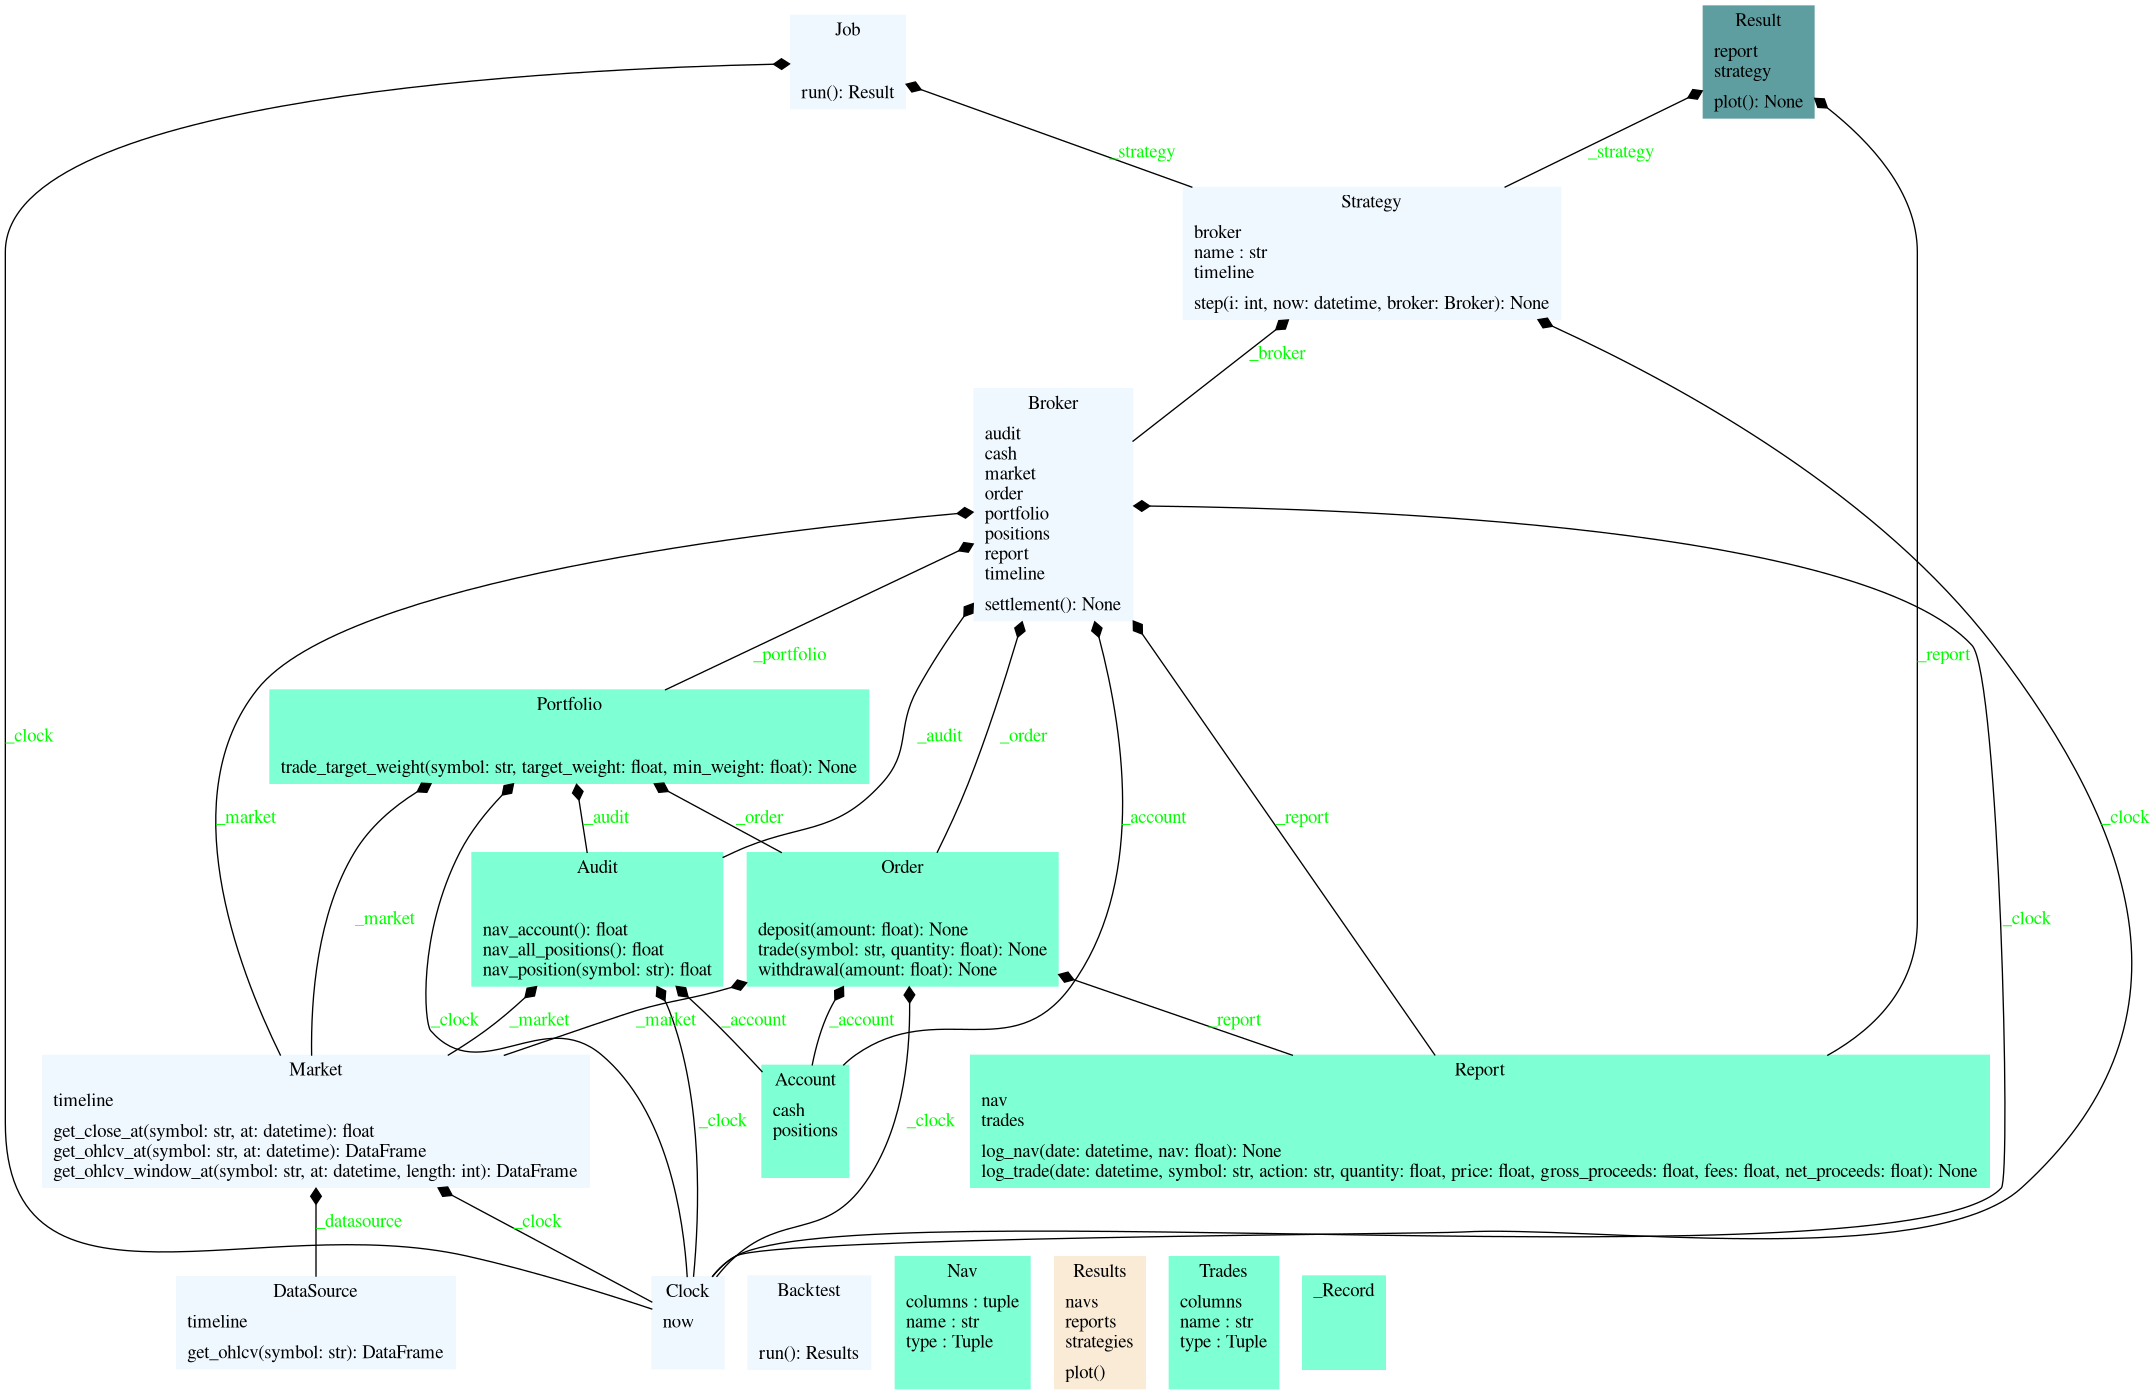
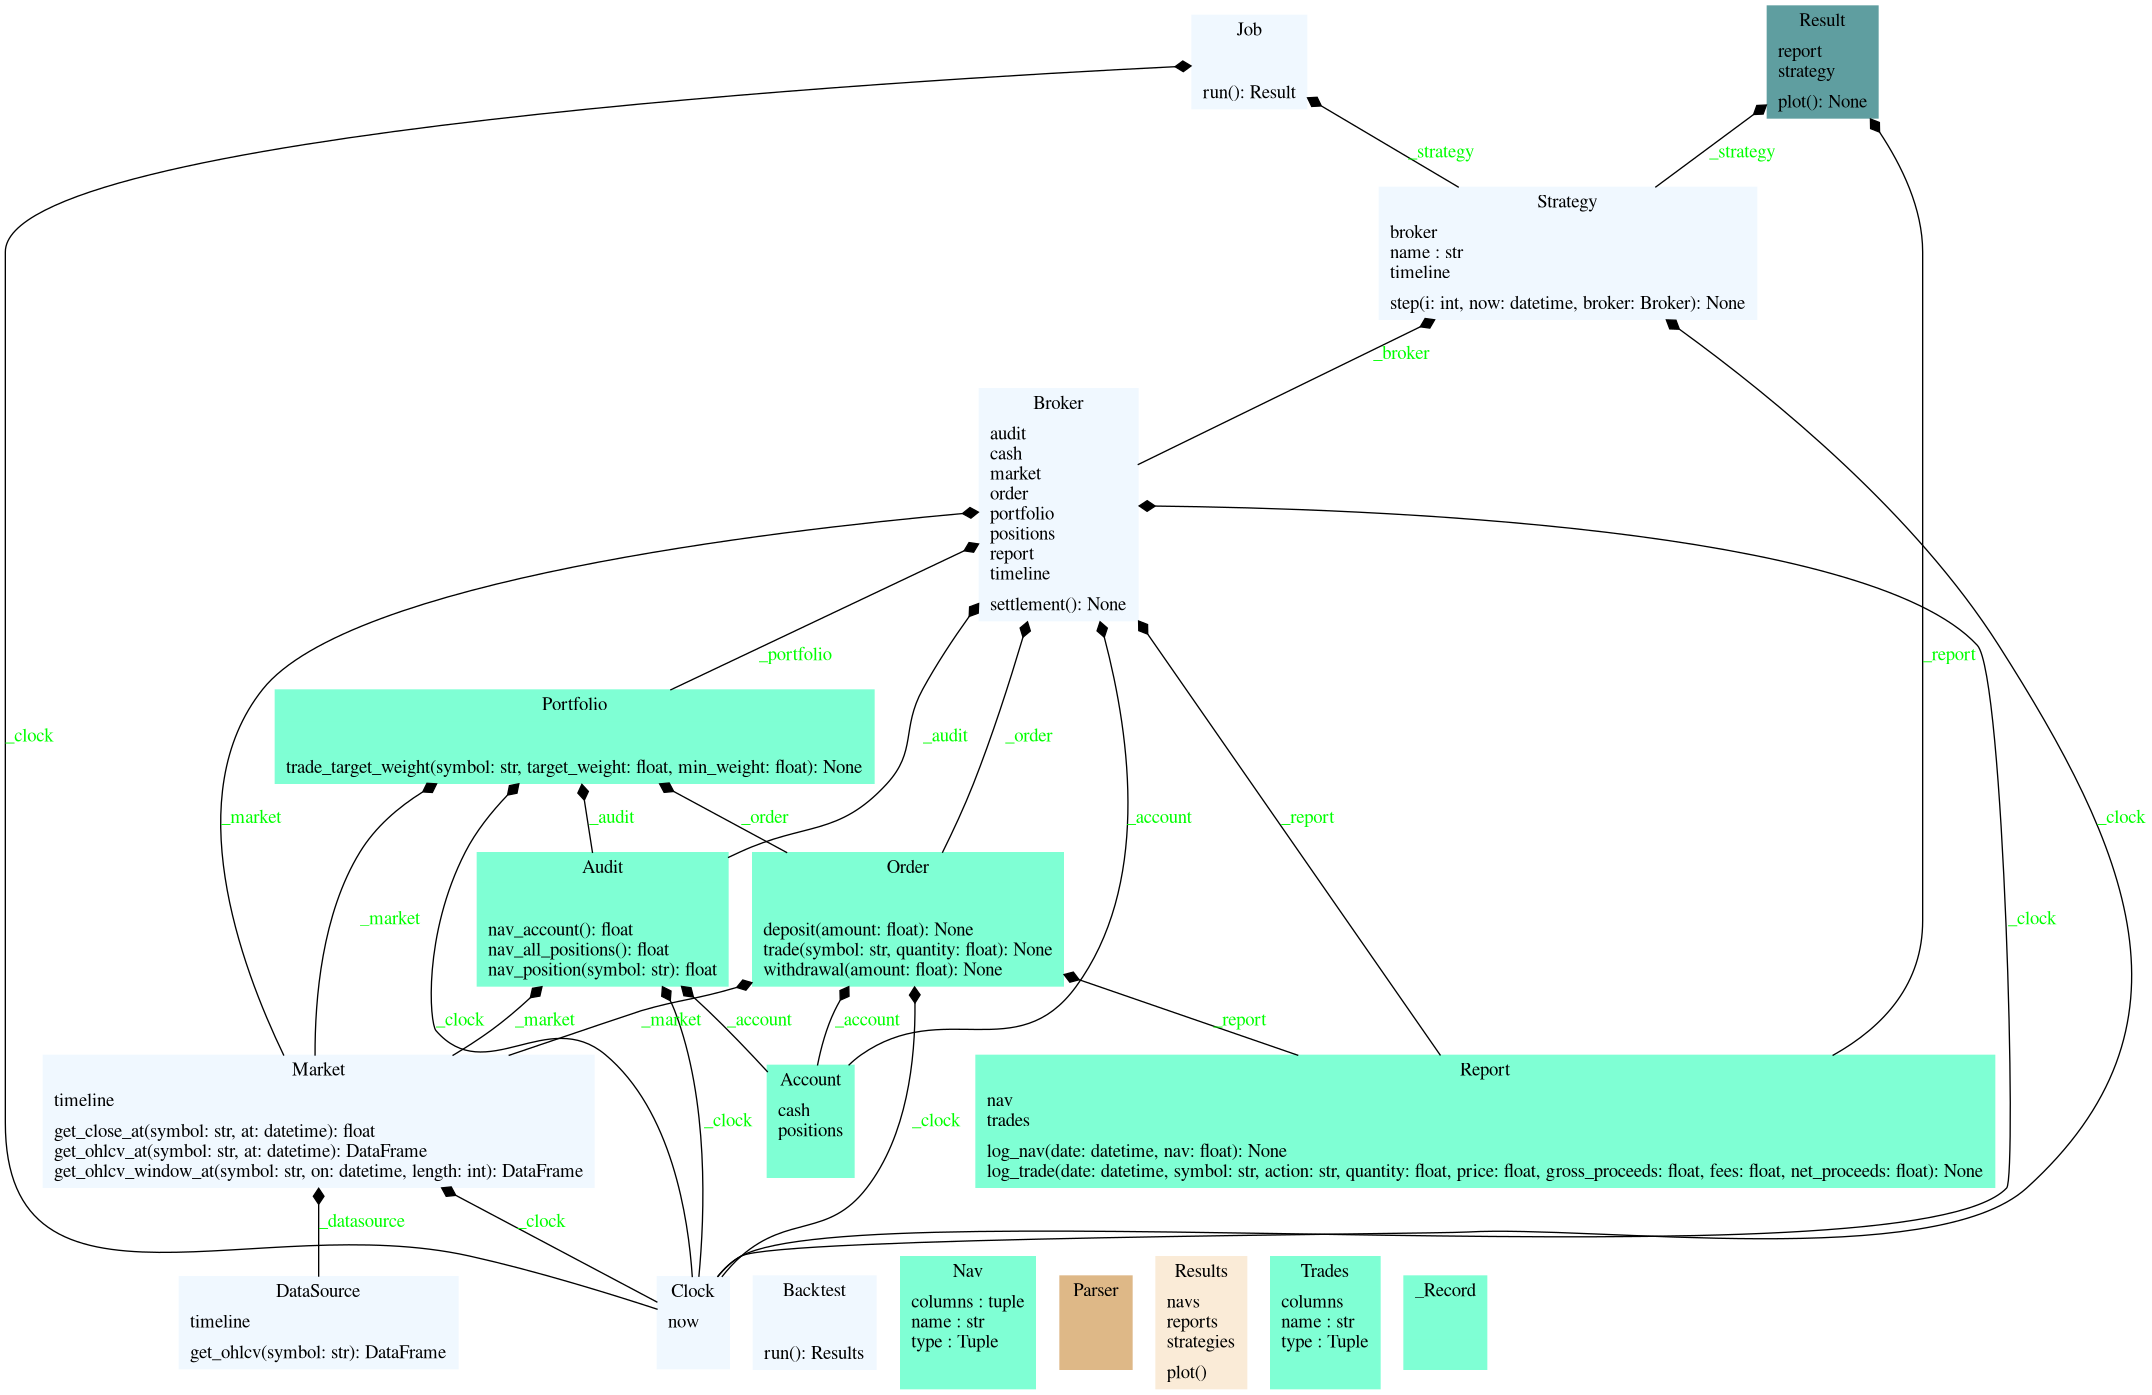
feat: market provides rolling ohlcv window

diff --git a/btbox/datasource/utils.py b/btbox/datasource/utils.py
@@ -1,12 +1,54 @@
-from pandas import read_csv, DataFrame
+from datetime import datetime
+from typing import Union, Tuple
+from pandas import to_datetime, read_csv, DataFrame
 
 
-def verify_ohlcv(ohlcv: DataFrame) -> None:
+class Parser:
+    def __init__(self):
+        pass
+
+
+def parse_start_end_window(
+        first_ohlcv: DataFrame,
+        start: Union[datetime, str, None],
+        end: Union[datetime, str, None],
+        window: int) -> Tuple[datetime, datetime, int, datetime, datetime]:
+    # None means min or max
+    start = first_ohlcv.index[0] if not start else start
+    end = first_ohlcv.index[-1] if not end else end
+    # end must be greater than start
+    start_: datetime = to_datetime(start)
+    end_: datetime = to_datetime(end)
+    assert start_ < end_
+    # ensurefirst window size is correct
+    window_ = max(window, 1)
+    first_window: DataFrame = first_ohlcv.loc[:start_].iloc[-window_:]
+    assert len(first_window) == window_
+    # trim the window accordingly
+    trim_from = first_window.index[0]
+    trim_to = end_
+    # return valid values
+    return (start_, end_, window_, trim_from, trim_to)
+
+
+def verify_ohlcv(ohlcv: DataFrame) -> DataFrame:
+    # ensure the window has valid values
     assert isinstance(ohlcv, DataFrame)
     assert ohlcv.index.name == 'Date'
     assert ohlcv.columns.tolist() == ['Open', 'High', 'Low', 'Close', 'Volume']
     assert not ohlcv.isnull().values.any()
     assert not ohlcv.isna().values.any()
+    return ohlcv
+
+
+def trim_ohlcv_length(ohlcv: DataFrame,
+                      trim_from: datetime,
+                      trim_to: datetime) -> DataFrame:
+    # trim dataframe by valid start and end
+    ohlcv_trimmed = ohlcv.loc[trim_from: trim_to]
+    # valid dataframe
+    ohlcv_clean = verify_ohlcv(ohlcv_trimmed)
+    return ohlcv_clean
 
 
 def import_yahoo_csv(path: str) -> DataFrame:

diff --git a/btbox/datasource/__init__.py b/btbox/datasource/__init__.py
@@ -1,19 +1,32 @@
-from pandas import read_csv, DataFrame
+from pandas import DataFrame
 from datetime import datetime
-from typing import Dict, List
+from typing import Dict, List, Union
 from functools import cache
-from btbox.datasource.utils import verify_ohlcv
+from btbox.datasource.utils import (
+    parse_start_end_window,
+    trim_ohlcv_length,
+    verify_ohlcv
+)
 
 
 class DataSource:
     def __init__(self,
                  dataframes: Dict[str, DataFrame],
+                 *,
+                 start: Union[datetime, str, None] = None,
+                 end: Union[datetime, str, None] = None,
                  window: int = 1) -> None:
-        for df in dataframes.values():
-            verify_ohlcv(df)
-        self._dataframes = dataframes
-        self._window = window
-        self._timeline = list(self._dataframes.values())[0].index.to_list()
+        (self._start,
+         self._end,
+         self._window,
+         trim_from,
+         trim_to) = parse_start_end_window(
+            next(iter(dataframes.values())), start, end, window)
+        self._dataframes = {
+            k: trim_ohlcv_length(df, trim_from, trim_to)
+            for k, df in dataframes.items()}
+        self._timeline = next(iter(self._dataframes.values())
+                              ).loc[self._start:self._end].index.to_list()
 
     @property
     def timeline(self) -> List[datetime]:

diff --git a/tests/test_datasource.py b/tests/test_datasource.py
@@ -1,0 +1,41 @@
+from datetime import datetime
+
+from pandas import to_datetime
+from btbox.backtest.utils import create_backtest
+from btbox.broker import Broker
+from btbox.job.utils import create_job
+from btbox.strategy import Strategy
+from btbox.datasource.utils import import_yahoo_csv
+import logging
+
+
+logger = logging.getLogger()
+logger.setLevel(logging.INFO)
+
+
+def test_start_end_window_timeline():
+    INI_CASH = 1e6
+    SYMBOL = 'SPY'
+    START = '2010-01-01'
+    END = '2020-12-31'
+    WINDOW = 100
+    dataframes = {SYMBOL: import_yahoo_csv('tests/SPY.csv')}
+
+    class Benchmark(Strategy):
+        name = 'Benchmark'
+
+        def step(self, i: int, now: datetime, broker: Broker):
+            if i == 0:
+                broker.order.deposit(INI_CASH)
+                broker.portfolio.trade_target_weight(SYMBOL, 1.0)
+                # assert now == to_datetime(START)
+            if i % 250 == 0:
+                win = broker.market.get_ohlcv_window_at(SYMBOL, now, WINDOW)
+                # assert len(win) == WINDOW
+
+    job = create_job(Benchmark, dataframes,
+                     start=START,
+                     end=END,
+                     window=WINDOW)
+    result = job.run()
+    assert result is not None

diff --git a/btbox/backtest/utils.py b/btbox/backtest/utils.py
@@ -6,8 +6,9 @@ from btbox.strategy import Strategy
 
 
 def create_backtest(CustomStrategys: List[Type[Strategy]],
-                    dataframes: Dict[str, DataFrame]) -> Backtest:
-    jobs = [create_job(CustomStrategy, dataframes)
+                    dataframes: Dict[str, DataFrame],
+                    **kwds_create_job) -> Backtest:
+    jobs = [create_job(CustomStrategy, dataframes, **kwds_create_job)
             for CustomStrategy in CustomStrategys]
     backtest = Backtest(jobs)
     return backtest

diff --git a/btbox/job/utils.py b/btbox/job/utils.py
@@ -10,9 +10,10 @@ from typing import Type, Dict
 
 # helper
 def create_job(CustomStrategy: Type[Strategy],
-               dataframes: Dict[str, DataFrame]) -> Job:
+               dataframes: Dict[str, DataFrame],
+               **kwds_DataSource) -> Job:
     clock = Clock()
-    datasource = DataSource(dataframes)
+    datasource = DataSource(dataframes, **kwds_DataSource)
     market = Market(datasource, clock)
     broker = Broker(market, clock)
     strategy = CustomStrategy(broker, clock)

diff --git a/btbox/market/__init__.py b/btbox/market/__init__.py
@@ -31,6 +31,8 @@ class Market:
         return self._datasource.get_ohlcv(symbol).at[at, 'Close']
 
     @cache
-    def get_ohlcv_window_at(self, symbol: str, at: datetime, length: int) -> DataFrame:
-        # TODO
-        return DataFrame()
+    def get_ohlcv_window_at(self,
+                            symbol: str,
+                            on: datetime,
+                            length: int) -> DataFrame:
+        return self._datasource.get_ohlcv(symbol).loc[:on].iloc[-length:]
